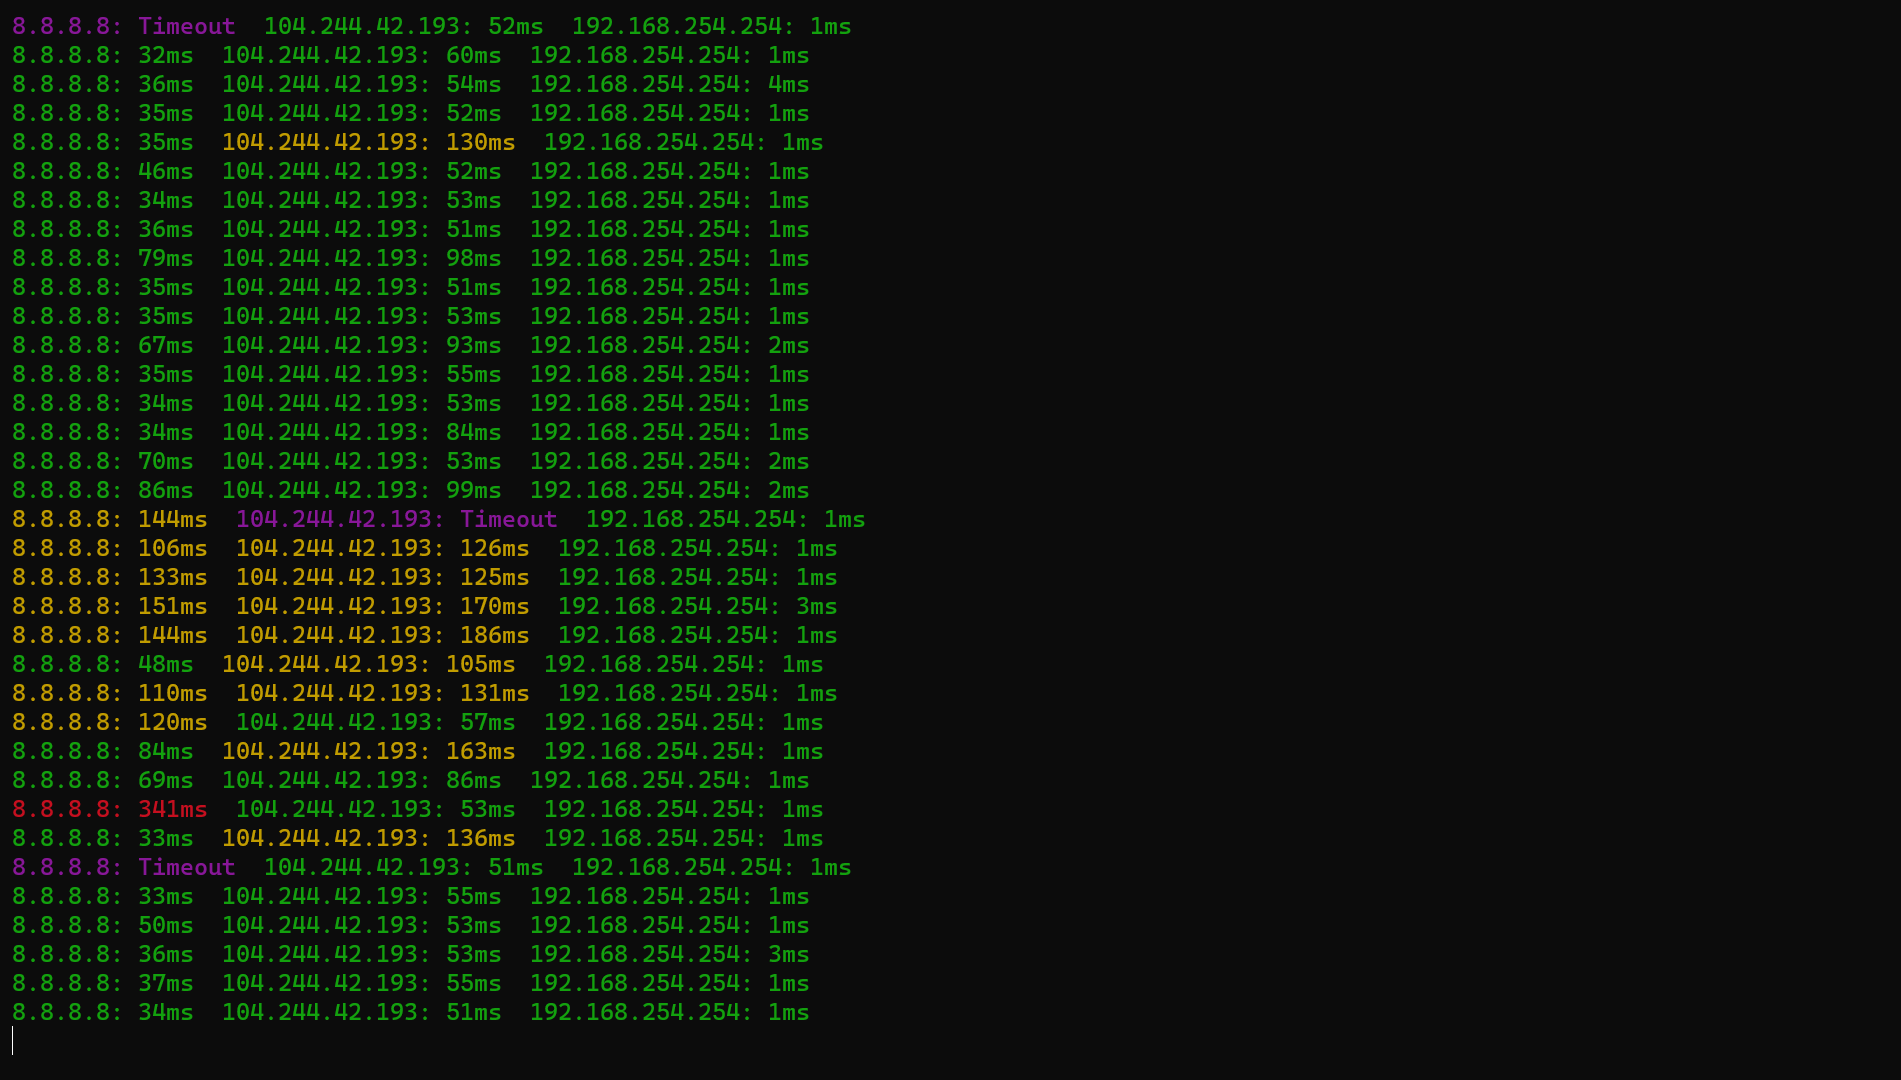
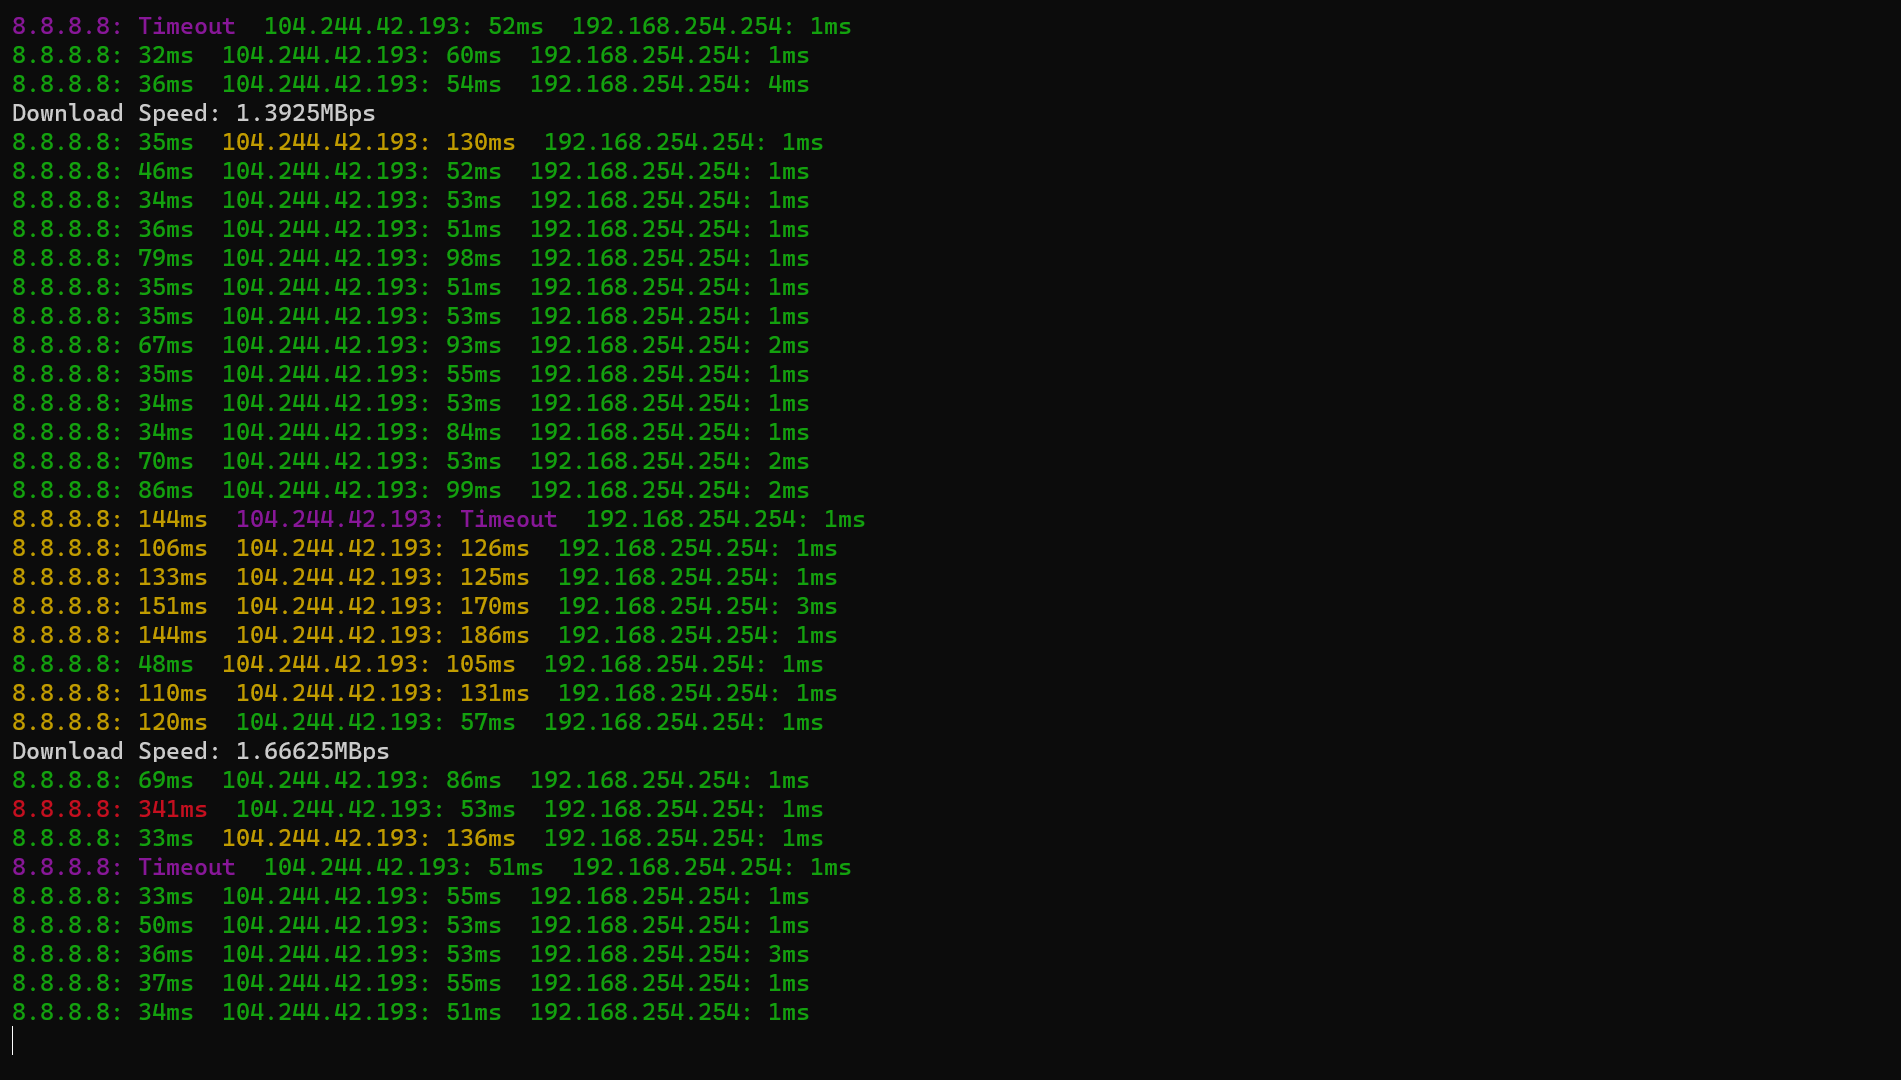
New feature: periodic download speed tests

Changed region(s): [[0.0, 0.6722, 0.4345, 0.7028], [0.0, 0.0917, 0.4345, 0.1222]]

diff --git a/index.js b/index.js
@@ -5,6 +5,9 @@ const chalk = require('chalk');
 const achart = require("asciichart");
 const windowsize = require("window-size");
 const fs = require('fs');
+const nspeedClass = require("network-speed");
+const nspeed = new nspeedClass();
+const speedTestUrl = "https://eu.httpbin.org/stream-bytes/"
 const cla = require('command-line-args');
 const options = cla([
     {
@@ -63,6 +66,21 @@ const options = cla([
         name: 'graphmaxpings',
         alias: 'p',
         type: Number
+    },
+    {
+        name: 'speedtestsize',
+        alias: 's',
+        type: Number
+    },
+    {
+        name: 'speedtestfreq',
+        alias: 'f',
+        type: Number
+    },
+    {
+        name: 'speedtestunit',
+        alias: 'u',
+        type: String
     }
 ]);
 
@@ -76,7 +94,10 @@ let optionConfigCoor = {
     maxhistory: 'maxPingChunkSize',
     align: 'alignLogs',
     graphmode: 'graphMode',
-    graphmaxpings: 'graphModeMaxPings'
+    graphmaxpings: 'graphModeMaxPings',
+    speedtestsize: 'speedTestSize',
+    speedtestfreq: 'speedTestFrequency',
+    speedtestunit: 'speedTestUnit',
 }
 
 for(let [key, value] of Object.entries(options)){
@@ -139,6 +160,17 @@ function recordPing(ip, delay){
         pingChunk[ip] = [];
     } 
 }
+
+let speedTestUnitMult = {
+    "GBps": 0.000125,
+    "gbps": 0.001,
+    "MBps": 0.125,
+    "mbps": 1,
+    "KBps": 125,
+    "kbps": 1000
+}
+
+if(!speedTestUnitMult[config.speedTestUnit])throw Error("Configuration error: Invalid speed test unit. Options are GBps, gbps, MBps, mbps, KBps, kbps. Got " + config.speedTestUnit)
 
 if(!config.ips){
     config.ips = prompt("Please enter the IP addresses you wish to ping, separated by spaces: ");
@@ -216,17 +248,49 @@ function graphRender(){
             statusBarString = statusBarString + (i != attach.length - 1 ? statusColor(' ') : ' ');
         }
     }
-    if(currentOutageBegan != 0) statusBarString = statusBarString + chalk.bgRed(` OUTAGE | Duration: ${Math.floor((Date.now() - currentOutageBegan) / 1000)}s `)
+    if(currentOutageBegan != 0){
+        statusBarString = statusBarString + chalk.bgRed(` OUTAGE | Duration: ${Math.floor((Date.now() - currentOutageBegan) / 1000)}s `)
+    } else {
+        if(config.speedTestSize != 0)statusBarString = statusBarString + ` Down: ${speedTestLast != null ? speedTestLast : 'Waiting'} ${speedTestInProgress ? '...' : ''}`
+    }
     console.log(infoBarString)
     console.log(statusBarString)
     pingArrsTimedOut = [];
 }
+
+let speedTestCount = 0;
+let speedTestBatch = null;
+let speedTestLast = null;
+let speedTestInProgress = false;
+let speedTestFirst = false;
+
+function speed(){
+    let batch;
+    speedTestFirst = true;
+    speedTestInProgress = true;
+    nspeed.checkDownloadSpeed(`${speedTestUrl}${config.speedTestSize}`, config.speedTestSize)
+    .then(speed =>{
+        batch = `${speedTestUnitMult[config.speedTestUnit] * speed.mbps}${config.speedTestUnit}`;
+    })
+    .catch(()=>{
+        batch = `0${config.speedTestUnit}`
+    })
+    .finally(()=>{
+        speedTestBatch = batch;
+        speedTestLast = batch;
+        speedTestCount = 0;
+        speedTestInProgress = false;
+    })
+}
+
 
 function check(){
     setTimeout(async ()=>{
         let pings = {};
         let timeoutCount = 0;
         let pingString = "";
+        speedTestCount = speedTestCount + 1;
+        if(config.speedTestSize != 0 && (speedTestCount == config.speedTestFrequency || !speedTestFirst) && currentOutageBegan == 0)speed();
         for(ip of config.ips){
             let pingResult = await ping.promise.probe(ip, { 'timeout': Math.floor(config.pingTimeout / 1000) });
             if(config.graphMode) pingArrAdd(ip, pingResult.time);
@@ -284,7 +348,11 @@ function check(){
         }
 
         if(timeoutConsecutive < config.timeoutCountForOutage && !config.graphMode) console.log(pingString);
-    
+        if(speedTestBatch != null && !config.graphMode){
+            console.log(`Download Speed: ${speedTestBatch}`);
+            speedTestBatch = null;
+        };
+
         if(config.graphMode)graphRender()
 
         check()

diff --git a/config.js b/config.js
@@ -10,4 +10,7 @@ module.exports = {
     "alignLogs": false, // keeps logs aligned at all times so they don't shift left and right
     "graphMode": false, // Show a graph of pings instead of constant logging
     "graphModeMaxPings": 125, // number of pings to show in graph. if this is greater than the width of the terminal, it will be set to the width of the terminal
+    "speedTestSize": 500000, // size of the file, in bytes, to download for speed tests. change to 0 to disable speed tests. higher size means more accurate tests, but also more bandwidth consumption
+    "speedTestFrequency": 30, // how many pings to wait before running another speed test. set to 1 to test on every ping
+    "speedTestUnit": "MBps", // unit to display speed test results in. options are "GBps", "gbps", "MBps", "mbps", "KBps", "kbps"
 }

diff --git a/README.md b/README.md
@@ -6,7 +6,8 @@ Outage Recorder is a lightweight ping utility made entirely in JavaScript.
 2. Automatically record outages with configurable outage thresholds
 3. Automatically record all-time ping history
 4. Colorful ping logs based on the ping's performance
-5. Choose between a traditional ping log feed or a ping graph
+5. Choose between a traditional ping log feed or a graph
+6. Perform periodic download speed tests
 
 ### Media
 <table class="tg">
@@ -121,16 +122,37 @@ These are the options you can find in `config.js`:
   <tr>
     <td class="tg-0lax">graphMode</td>
     <td class="tg-0lax">boolean</td>
-    <td class="tg-0lax">If set to true, program will run in graph mode where ping data is shown as a graph instead of constant ping logs. Note that window sizing is not dynamic in graph mode and you'll have to adjust your terminal's window size before you begin the program</td>
+    <td class="tg-0lax">If set to true, program will run in graph mode where ping data is shown as a graph instead of constant ping logs. Note that window sizing is not dynamic in graph mode and you'll have to adjust your terminal's window size before you begin the program.</td>
     <td class="tg-0lax">true</td>
     <td>--graphmode, -g</td>
   </tr>
   <tr>
     <td class="tg-0lax">graphModeMaxPings</td>
     <td class="tg-0lax">integer</td>
-    <td class="tg-0lax">If program is in graph mode, this is the maximum amount of pings shown and thus the max width of the X axis. If greater than window width, it will be resized down to the window width</td>
+    <td class="tg-0lax">If program is in graph mode, this is the maximum amount of pings shown and thus the max width of the X axis. If greater than window width, it will be resized down to the window width.</td>
     <td class="tg-0lax">125</td>
     <td>--graphmaxpings, -p</td>
+  </tr>
+  <tr>
+    <td class="tg-0lax">speedTestSize</td>
+    <td class="tg-0lax">integer</td>
+    <td class="tg-0lax">The size, in bytes, that the downloaded sample will be every speed test. Higher size means more accurate tests, but also more bandwidth consumption. Change to 0 to disable download speed tests</td>
+    <td class="tg-0lax">50000</td>
+    <td>--speedtestsize, -s</td>
+  </tr>
+  <tr>
+    <td class="tg-0lax">speedTestFrequency</td>
+    <td class="tg-0lax">integer</td>
+    <td class="tg-0lax">How many ping batches must be ran before another download speed test will be ran.</td>
+    <td class="tg-0lax">10</td>
+    <td>--speedtestfreq, -f</td>
+  </tr>
+  <tr>
+    <td class="tg-0lax">speedTestUnit</td>
+    <td class="tg-0lax">string</td>
+    <td class="tg-0lax">The unit you want the download speed test result to be represented as. Options are: "GBps", "gbps", "MBps", "mbps", "KBps", "kbps"</td>
+    <td class="tg-0lax">mbps</td>
+    <td>--speedtestunit, -u</td>
   </tr>
 </tbody>
 </table>
